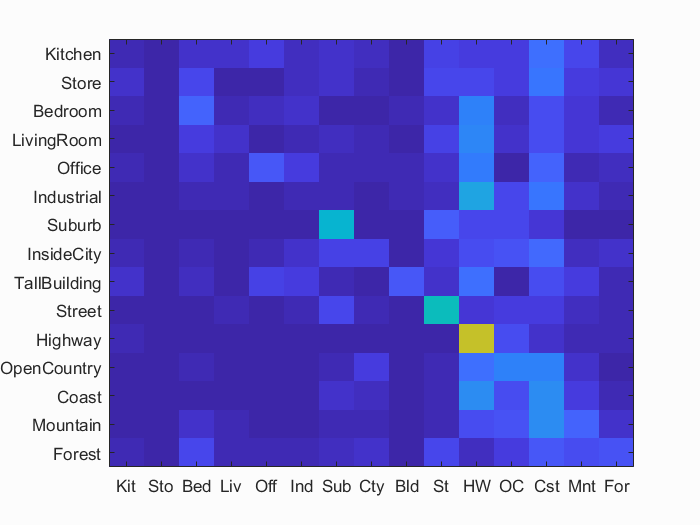
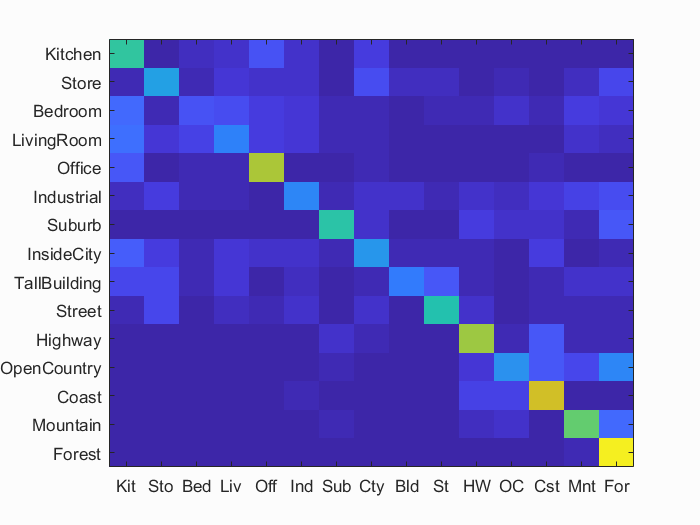
bag of words implemented

diff --git a/hw5/code/results_webpage/index.html b/hw5/code/results_webpage/index.html
@@ -36,7 +36,7 @@ h1 {
 <img src="confusion_matrix.png">
 
 <br>
-Accuracy (mean of diagonal of confusion matrix) is 0.221
+Accuracy (mean of diagonal of confusion matrix) is 0.491
 <p>
 
 <table border=0 cellpadding=4 cellspacing=1>
@@ -50,183 +50,183 @@ Accuracy (mean of diagonal of confusion matrix) is 0.221
 </tr>
 <tr>
 <td>Kitchen</td>
-<td>0.020</td>
-<td bgcolor=LightBlue><img src="thumbnails/Kitchen_image_0055.jpg" width=112 height=75></td>
-<td bgcolor=LightBlue><img src="thumbnails/Kitchen_image_0004.jpg" width=100 height=75></td>
+<td>0.560</td>
+<td bgcolor=LightBlue><img src="thumbnails/Kitchen_image_0161.jpg" width=100 height=75></td>
+<td bgcolor=LightBlue><img src="thumbnails/Kitchen_image_0176.jpg" width=100 height=75></td>
 <td bgcolor=LightGreen></td>
 <td bgcolor=LightGreen></td>
 <td bgcolor=LightCoral></td>
 <td bgcolor=LightCoral></td>
-<td bgcolor=#FFBB55><img src="thumbnails/Kitchen_image_0091.jpg" width=94 height=75><br><small>Highway</small></td>
-<td bgcolor=#FFBB55><img src="thumbnails/Kitchen_image_0085.jpg" width=101 height=75><br><small>Mountain</small></td>
+<td bgcolor=#FFBB55><img src="thumbnails/Kitchen_image_0035.jpg" width=57 height=75><br><small>Kitchen</small></td>
+<td bgcolor=#FFBB55><img src="thumbnails/Kitchen_image_0049.jpg" width=113 height=75><br><small>Kitchen</small></td>
 </tr>
 <tr>
 <td>Store</td>
-<td>0.000</td>
-<td bgcolor=LightBlue><img src="thumbnails/Store_image_0119.jpg" width=100 height=75></td>
-<td bgcolor=LightBlue><img src="thumbnails/Store_image_0055.jpg" width=100 height=75></td>
+<td>0.370</td>
+<td bgcolor=LightBlue><img src="thumbnails/Store_image_0059.jpg" width=102 height=75></td>
+<td bgcolor=LightBlue><img src="thumbnails/Store_image_0314.jpg" width=100 height=75></td>
 <td bgcolor=LightGreen></td>
 <td bgcolor=LightGreen></td>
 <td bgcolor=LightCoral></td>
 <td bgcolor=LightCoral></td>
-<td bgcolor=#FFBB55><img src="thumbnails/Store_image_0043.jpg" width=100 height=75><br><small>Bedroom</small></td>
-<td bgcolor=#FFBB55><img src="thumbnails/Store_image_0141.jpg" width=125 height=75><br><small>Kitchen</small></td>
+<td bgcolor=#FFBB55><img src="thumbnails/Store_image_0056.jpg" width=100 height=75><br><small>Store</small></td>
+<td bgcolor=#FFBB55><img src="thumbnails/Store_image_0090.jpg" width=112 height=75><br><small>Store</small></td>
 </tr>
 <tr>
 <td>Bedroom</td>
-<td>0.190</td>
+<td>0.150</td>
 <td bgcolor=LightBlue><img src="thumbnails/Bedroom_image_0012.jpg" width=101 height=75></td>
-<td bgcolor=LightBlue><img src="thumbnails/Bedroom_image_0211.jpg" width=113 height=75></td>
+<td bgcolor=LightBlue><img src="thumbnails/Bedroom_image_0173.jpg" width=132 height=75></td>
 <td bgcolor=LightGreen></td>
 <td bgcolor=LightGreen></td>
 <td bgcolor=LightCoral></td>
 <td bgcolor=LightCoral></td>
-<td bgcolor=#FFBB55><img src="thumbnails/Bedroom_image_0158.jpg" width=100 height=75><br><small>Highway</small></td>
-<td bgcolor=#FFBB55><img src="thumbnails/Bedroom_image_0060.jpg" width=114 height=75><br><small>Coast</small></td>
+<td bgcolor=#FFBB55><img src="thumbnails/Bedroom_image_0134.jpg" width=113 height=75><br><small>Forest</small></td>
+<td bgcolor=#FFBB55><img src="thumbnails/Bedroom_image_0056.jpg" width=113 height=75><br><small>Office</small></td>
 </tr>
 <tr>
 <td>LivingRoom</td>
-<td>0.060</td>
-<td bgcolor=LightBlue><img src="thumbnails/LivingRoom_image_0076.jpg" width=101 height=75></td>
-<td bgcolor=LightBlue><img src="thumbnails/LivingRoom_image_0026.jpg" width=100 height=75></td>
+<td>0.280</td>
+<td bgcolor=LightBlue><img src="thumbnails/LivingRoom_image_0028.jpg" width=114 height=75></td>
+<td bgcolor=LightBlue><img src="thumbnails/LivingRoom_image_0286.jpg" width=100 height=75></td>
 <td bgcolor=LightGreen></td>
 <td bgcolor=LightGreen></td>
 <td bgcolor=LightCoral></td>
 <td bgcolor=LightCoral></td>
-<td bgcolor=#FFBB55><img src="thumbnails/LivingRoom_image_0070.jpg" width=101 height=75><br><small>Highway</small></td>
-<td bgcolor=#FFBB55><img src="thumbnails/LivingRoom_image_0071.jpg" width=113 height=75><br><small>Coast</small></td>
+<td bgcolor=#FFBB55><img src="thumbnails/LivingRoom_image_0104.jpg" width=101 height=75><br><small>LivingRoom</small></td>
+<td bgcolor=#FFBB55><img src="thumbnails/LivingRoom_image_0105.jpg" width=114 height=75><br><small>LivingRoom</small></td>
 </tr>
 <tr>
 <td>Office</td>
-<td>0.170</td>
-<td bgcolor=LightBlue><img src="thumbnails/Office_image_0184.jpg" width=109 height=75></td>
-<td bgcolor=LightBlue><img src="thumbnails/Office_image_0149.jpg" width=108 height=75></td>
+<td>0.710</td>
+<td bgcolor=LightBlue><img src="thumbnails/Office_image_0137.jpg" width=102 height=75></td>
+<td bgcolor=LightBlue><img src="thumbnails/Office_image_0013.jpg" width=92 height=75></td>
 <td bgcolor=LightGreen></td>
 <td bgcolor=LightGreen></td>
 <td bgcolor=LightCoral></td>
 <td bgcolor=LightCoral></td>
-<td bgcolor=#FFBB55><img src="thumbnails/Office_image_0123.jpg" width=105 height=75><br><small>OpenCountry</small></td>
-<td bgcolor=#FFBB55><img src="thumbnails/Office_image_0091.jpg" width=109 height=75><br><small>Highway</small></td>
+<td bgcolor=#FFBB55><img src="thumbnails/Office_image_0064.jpg" width=93 height=75><br><small>Office</small></td>
+<td bgcolor=#FFBB55><img src="thumbnails/Office_image_0003.jpg" width=115 height=75><br><small>Office</small></td>
 </tr>
 <tr>
 <td>Industrial</td>
-<td>0.030</td>
-<td bgcolor=LightBlue><img src="thumbnails/Industrial_image_0301.jpg" width=54 height=75></td>
-<td bgcolor=LightBlue><img src="thumbnails/Industrial_image_0265.jpg" width=103 height=75></td>
+<td>0.290</td>
+<td bgcolor=LightBlue><img src="thumbnails/Industrial_image_0289.jpg" width=101 height=75></td>
+<td bgcolor=LightBlue><img src="thumbnails/Industrial_image_0090.jpg" width=112 height=75></td>
 <td bgcolor=LightGreen></td>
 <td bgcolor=LightGreen></td>
 <td bgcolor=LightCoral></td>
 <td bgcolor=LightCoral></td>
-<td bgcolor=#FFBB55><img src="thumbnails/Industrial_image_0107.jpg" width=50 height=75><br><small>Mountain</small></td>
-<td bgcolor=#FFBB55><img src="thumbnails/Industrial_image_0145.jpg" width=98 height=75><br><small>Highway</small></td>
+<td bgcolor=#FFBB55><img src="thumbnails/Industrial_image_0017.jpg" width=100 height=75><br><small>Forest</small></td>
+<td bgcolor=#FFBB55><img src="thumbnails/Industrial_image_0059.jpg" width=111 height=75><br><small>Store</small></td>
 </tr>
 <tr>
 <td>Suburb</td>
-<td>0.440</td>
-<td bgcolor=LightBlue><img src="thumbnails/Suburb_image_0121.jpg" width=113 height=75></td>
-<td bgcolor=LightBlue><img src="thumbnails/Suburb_image_0066.jpg" width=113 height=75></td>
+<td>0.540</td>
+<td bgcolor=LightBlue><img src="thumbnails/Suburb_image_0058.jpg" width=113 height=75></td>
+<td bgcolor=LightBlue><img src="thumbnails/Suburb_image_0085.jpg" width=113 height=75></td>
 <td bgcolor=LightGreen></td>
 <td bgcolor=LightGreen></td>
 <td bgcolor=LightCoral></td>
 <td bgcolor=LightCoral></td>
-<td bgcolor=#FFBB55><img src="thumbnails/Suburb_image_0032.jpg" width=113 height=75><br><small>OpenCountry</small></td>
-<td bgcolor=#FFBB55><img src="thumbnails/Suburb_image_0167.jpg" width=113 height=75><br><small>Suburb</small></td>
+<td bgcolor=#FFBB55><img src="thumbnails/Suburb_image_0127.jpg" width=113 height=75><br><small>Forest</small></td>
+<td bgcolor=#FFBB55><img src="thumbnails/Suburb_image_0071.jpg" width=113 height=75><br><small>Forest</small></td>
 </tr>
 <tr>
 <td>InsideCity</td>
-<td>0.100</td>
-<td bgcolor=LightBlue><img src="thumbnails/InsideCity_image_0245.jpg" width=75 height=75></td>
-<td bgcolor=LightBlue><img src="thumbnails/InsideCity_image_0005.jpg" width=75 height=75></td>
+<td>0.340</td>
+<td bgcolor=LightBlue><img src="thumbnails/InsideCity_image_0090.jpg" width=75 height=75></td>
+<td bgcolor=LightBlue><img src="thumbnails/InsideCity_image_0064.jpg" width=75 height=75></td>
 <td bgcolor=LightGreen></td>
 <td bgcolor=LightGreen></td>
 <td bgcolor=LightCoral></td>
 <td bgcolor=LightCoral></td>
-<td bgcolor=#FFBB55><img src="thumbnails/InsideCity_image_0097.jpg" width=75 height=75><br><small>Suburb</small></td>
-<td bgcolor=#FFBB55><img src="thumbnails/InsideCity_image_0011.jpg" width=75 height=75><br><small>Coast</small></td>
+<td bgcolor=#FFBB55><img src="thumbnails/InsideCity_image_0103.jpg" width=75 height=75><br><small>Kitchen</small></td>
+<td bgcolor=#FFBB55><img src="thumbnails/InsideCity_image_0110.jpg" width=75 height=75><br><small>Kitchen</small></td>
 </tr>
 <tr>
 <td>TallBuilding</td>
-<td>0.160</td>
-<td bgcolor=LightBlue><img src="thumbnails/TallBuilding_image_0011.jpg" width=75 height=75></td>
-<td bgcolor=LightBlue><img src="thumbnails/TallBuilding_image_0315.jpg" width=75 height=75></td>
+<td>0.250</td>
+<td bgcolor=LightBlue><img src="thumbnails/TallBuilding_image_0063.jpg" width=75 height=75></td>
+<td bgcolor=LightBlue><img src="thumbnails/TallBuilding_image_0076.jpg" width=75 height=75></td>
 <td bgcolor=LightGreen></td>
 <td bgcolor=LightGreen></td>
 <td bgcolor=LightCoral></td>
 <td bgcolor=LightCoral></td>
-<td bgcolor=#FFBB55><img src="thumbnails/TallBuilding_image_0046.jpg" width=75 height=75><br><small>Street</small></td>
-<td bgcolor=#FFBB55><img src="thumbnails/TallBuilding_image_0029.jpg" width=75 height=75><br><small>Highway</small></td>
+<td bgcolor=#FFBB55><img src="thumbnails/TallBuilding_image_0114.jpg" width=75 height=75><br><small>LivingRoom</small></td>
+<td bgcolor=#FFBB55><img src="thumbnails/TallBuilding_image_0103.jpg" width=75 height=75><br><small>TallBuilding</small></td>
 </tr>
 <tr>
 <td>Street</td>
-<td>0.490</td>
-<td bgcolor=LightBlue><img src="thumbnails/Street_image_0166.jpg" width=75 height=75></td>
-<td bgcolor=LightBlue><img src="thumbnails/Street_image_0164.jpg" width=75 height=75></td>
+<td>0.520</td>
+<td bgcolor=LightBlue><img src="thumbnails/Street_image_0031.jpg" width=75 height=75></td>
+<td bgcolor=LightBlue><img src="thumbnails/Street_image_0035.jpg" width=75 height=75></td>
 <td bgcolor=LightGreen></td>
 <td bgcolor=LightGreen></td>
 <td bgcolor=LightCoral></td>
 <td bgcolor=LightCoral></td>
-<td bgcolor=#FFBB55><img src="thumbnails/Street_image_0036.jpg" width=75 height=75><br><small>Street</small></td>
-<td bgcolor=#FFBB55><img src="thumbnails/Street_image_0085.jpg" width=75 height=75><br><small>Suburb</small></td>
+<td bgcolor=#FFBB55><img src="thumbnails/Street_image_0146.jpg" width=75 height=75><br><small>Store</small></td>
+<td bgcolor=#FFBB55><img src="thumbnails/Street_image_0054.jpg" width=75 height=75><br><small>Coast</small></td>
 </tr>
 <tr>
 <td>Highway</td>
-<td>0.740</td>
-<td bgcolor=LightBlue><img src="thumbnails/Highway_image_0106.jpg" width=75 height=75></td>
-<td bgcolor=LightBlue><img src="thumbnails/Highway_image_0122.jpg" width=75 height=75></td>
+<td>0.690</td>
+<td bgcolor=LightBlue><img src="thumbnails/Highway_image_0254.jpg" width=75 height=75></td>
+<td bgcolor=LightBlue><img src="thumbnails/Highway_image_0114.jpg" width=75 height=75></td>
 <td bgcolor=LightGreen></td>
 <td bgcolor=LightGreen></td>
 <td bgcolor=LightCoral></td>
 <td bgcolor=LightCoral></td>
-<td bgcolor=#FFBB55><img src="thumbnails/Highway_image_0147.jpg" width=75 height=75><br><small>Highway</small></td>
-<td bgcolor=#FFBB55><img src="thumbnails/Highway_image_0095.jpg" width=75 height=75><br><small>OpenCountry</small></td>
+<td bgcolor=#FFBB55><img src="thumbnails/Highway_image_0039.jpg" width=75 height=75><br><small>Highway</small></td>
+<td bgcolor=#FFBB55><img src="thumbnails/Highway_image_0040.jpg" width=75 height=75><br><small>Highway</small></td>
 </tr>
 <tr>
 <td>OpenCountry</td>
-<td>0.280</td>
-<td bgcolor=LightBlue><img src="thumbnails/OpenCountry_image_0364.jpg" width=75 height=75></td>
-<td bgcolor=LightBlue><img src="thumbnails/OpenCountry_image_0288.jpg" width=75 height=75></td>
+<td>0.320</td>
+<td bgcolor=LightBlue><img src="thumbnails/OpenCountry_image_0291.jpg" width=75 height=75></td>
+<td bgcolor=LightBlue><img src="thumbnails/OpenCountry_image_0320.jpg" width=75 height=75></td>
 <td bgcolor=LightGreen></td>
 <td bgcolor=LightGreen></td>
 <td bgcolor=LightCoral></td>
 <td bgcolor=LightCoral></td>
-<td bgcolor=#FFBB55><img src="thumbnails/OpenCountry_image_0090.jpg" width=75 height=75><br><small>Coast</small></td>
-<td bgcolor=#FFBB55><img src="thumbnails/OpenCountry_image_0120.jpg" width=75 height=75><br><small>Street</small></td>
+<td bgcolor=#FFBB55><img src="thumbnails/OpenCountry_image_0014.jpg" width=75 height=75><br><small>Mountain</small></td>
+<td bgcolor=#FFBB55><img src="thumbnails/OpenCountry_image_0044.jpg" width=75 height=75><br><small>OpenCountry</small></td>
 </tr>
 <tr>
 <td>Coast</td>
-<td>0.300</td>
-<td bgcolor=LightBlue><img src="thumbnails/Coast_image_0048.jpg" width=75 height=75></td>
-<td bgcolor=LightBlue><img src="thumbnails/Coast_image_0159.jpg" width=75 height=75></td>
+<td>0.750</td>
+<td bgcolor=LightBlue><img src="thumbnails/Coast_image_0286.jpg" width=75 height=75></td>
+<td bgcolor=LightBlue><img src="thumbnails/Coast_image_0193.jpg" width=75 height=75></td>
 <td bgcolor=LightGreen></td>
 <td bgcolor=LightGreen></td>
 <td bgcolor=LightCoral></td>
 <td bgcolor=LightCoral></td>
-<td bgcolor=#FFBB55><img src="thumbnails/Coast_image_0063.jpg" width=75 height=75><br><small>Highway</small></td>
-<td bgcolor=#FFBB55><img src="thumbnails/Coast_image_0107.jpg" width=75 height=75><br><small>Highway</small></td>
+<td bgcolor=#FFBB55><img src="thumbnails/Coast_image_0093.jpg" width=75 height=75><br><small>TallBuilding</small></td>
+<td bgcolor=#FFBB55><img src="thumbnails/Coast_image_0012.jpg" width=75 height=75><br><small>Coast</small></td>
 </tr>
 <tr>
 <td>Mountain</td>
-<td>0.190</td>
-<td bgcolor=LightBlue><img src="thumbnails/Mountain_image_0173.jpg" width=75 height=75></td>
-<td bgcolor=LightBlue><img src="thumbnails/Mountain_image_0291.jpg" width=75 height=75></td>
+<td>0.640</td>
+<td bgcolor=LightBlue><img src="thumbnails/Mountain_image_0232.jpg" width=75 height=75></td>
+<td bgcolor=LightBlue><img src="thumbnails/Mountain_image_0323.jpg" width=75 height=75></td>
 <td bgcolor=LightGreen></td>
 <td bgcolor=LightGreen></td>
 <td bgcolor=LightCoral></td>
 <td bgcolor=LightCoral></td>
-<td bgcolor=#FFBB55><img src="thumbnails/Mountain_image_0018.jpg" width=75 height=75><br><small>Coast</small></td>
-<td bgcolor=#FFBB55><img src="thumbnails/Mountain_image_0069.jpg" width=75 height=75><br><small>Coast</small></td>
+<td bgcolor=#FFBB55><img src="thumbnails/Mountain_image_0045.jpg" width=75 height=75><br><small>Mountain</small></td>
+<td bgcolor=#FFBB55><img src="thumbnails/Mountain_image_0106.jpg" width=75 height=75><br><small>Mountain</small></td>
 </tr>
 <tr>
 <td>Forest</td>
-<td>0.150</td>
-<td bgcolor=LightBlue><img src="thumbnails/Forest_image_0112.jpg" width=75 height=75></td>
-<td bgcolor=LightBlue><img src="thumbnails/Forest_image_0123.jpg" width=75 height=75></td>
+<td>0.960</td>
+<td bgcolor=LightBlue><img src="thumbnails/Forest_image_0181.jpg" width=75 height=75></td>
+<td bgcolor=LightBlue><img src="thumbnails/Forest_image_0265.jpg" width=75 height=75></td>
 <td bgcolor=LightGreen></td>
 <td bgcolor=LightGreen></td>
 <td bgcolor=LightCoral></td>
 <td bgcolor=LightCoral></td>
-<td bgcolor=#FFBB55><img src="thumbnails/Forest_image_0135.jpg" width=75 height=75><br><small>TallBuilding</small></td>
-<td bgcolor=#FFBB55><img src="thumbnails/Forest_image_0089.jpg" width=75 height=75><br><small>Coast</small></td>
+<td bgcolor=#FFBB55><img src="thumbnails/Forest_image_0059.jpg" width=75 height=75><br><small>Forest</small></td>
+<td bgcolor=#FFBB55><img src="thumbnails/Forest_image_0122.jpg" width=75 height=75><br><small>Forest</small></td>
 </tr>
 <tr>
 <th>Category name</th>

diff --git a/hw5/code/projSceneRecBoW.m b/hw5/code/projSceneRecBoW.m
@@ -50,8 +50,8 @@ function projSceneRecBoW()
 
 %% Step 0: Set up parameters, vlfeat, category list, and image paths.
 
-FEATURE = 'tiny image';
-% FEATURE = 'bag of words';
+% FEATURE = 'tiny image';
+FEATURE = 'bag of words';
 % FEATURE = 'placeholder';
 
 CLASSIFIER = 'nearest neighbor';
